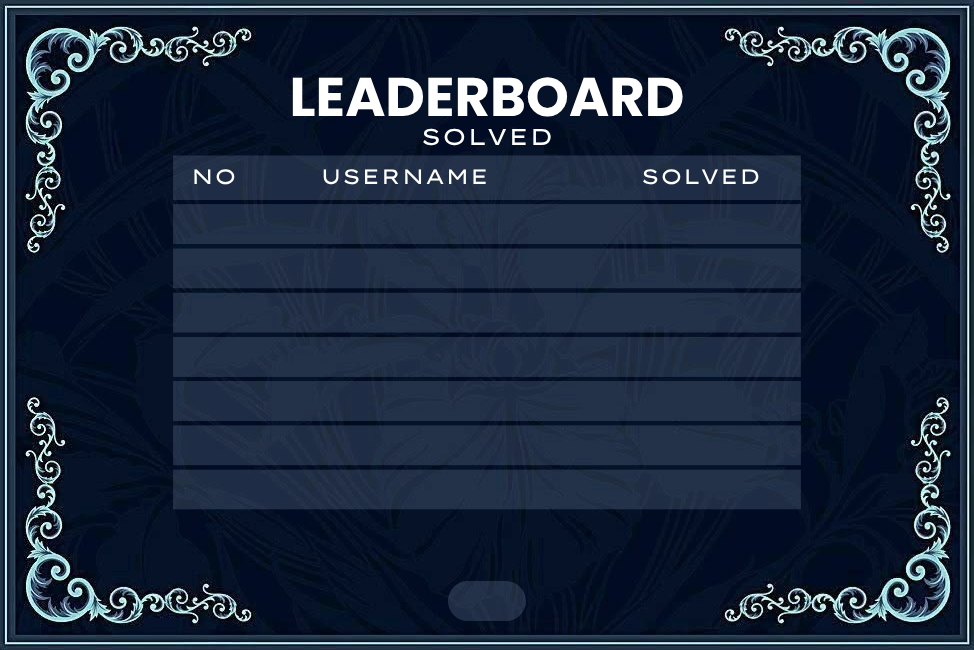
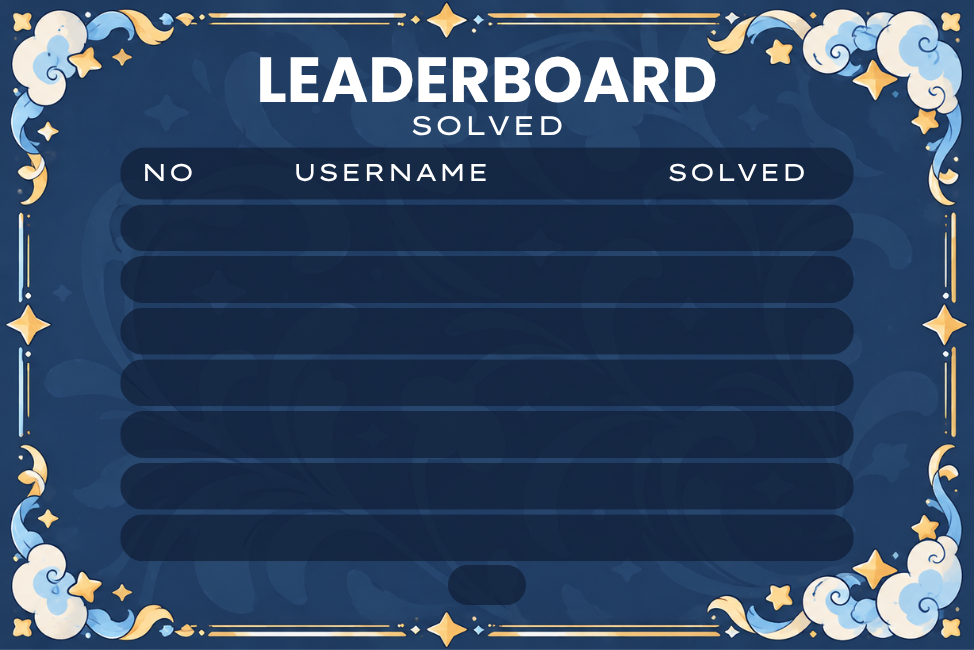
feat: readjust renders to new templates and send accepted notification as image

diff --git a/bot/render/profile.py b/bot/render/profile.py
@@ -11,20 +11,20 @@ from bot.render.text import Box, fit_text
 
 TEMPLATE = ASSETS_DIR / "profile.png"
 
-SLOT_AVATAR: Box = (167, 158, 386, 377)
-SLOT_LAST_SOLVED: Box = (167, 415, 386, 492)
-SLOT_LEVEL: Box = (411, 158, 485, 207)
-SLOT_HANDLE: Box = (509, 158, 807, 207)
-SLOT_RANK: Box = (411, 226, 525, 267)
-SLOT_EXP: Box = (551, 226, 666, 267)
-SLOT_MONEY: Box = (692, 226, 807, 267)
-SLOT_RATING: Box = (430, 366, 530, 392)
-SLOT_CF_RANK: Box = (563, 366, 663, 392)
-SLOT_MAX: Box = (696, 366, 796, 392)
-SLOT_LAST_SEEN: Box = (430, 434, 530, 460)
-SLOT_SOLVED: Box = (563, 434, 663, 460)
-SLOT_STREAK: Box = (696, 434, 796, 460)
-AVATAR_RADIUS = 12
+SLOT_AVATAR: Box = (93, 130, 362, 400)
+SLOT_LAST_SOLVED: Box = (105, 446, 350, 536)
+SLOT_LEVEL: Box = (393, 130, 484, 189)
+SLOT_HANDLE: Box = (514, 130, 880, 189)
+SLOT_RANK: Box = (393, 214, 533, 263)
+SLOT_EXP: Box = (566, 214, 707, 263)
+SLOT_MONEY: Box = (740, 214, 880, 263)
+SLOT_RATING: Box = (412, 386, 542, 422)
+SLOT_CF_RANK: Box = (575, 386, 705, 422)
+SLOT_MAX: Box = (740, 386, 870, 422)
+SLOT_LAST_SEEN: Box = (412, 470, 542, 506)
+SLOT_SOLVED: Box = (575, 470, 705, 506)
+SLOT_STREAK: Box = (740, 470, 870, 506)
+AVATAR_RADIUS = 66
 
 
 @dataclass(frozen=True)
@@ -71,8 +71,18 @@ def _paste_avatar(base: Image.Image, avatar: bytes | None) -> None:
     base.paste(img, (x0, y0), mask)
 
 
+SHORT_CF_RANKS = {
+    "candidate master": "CM",
+    "international master": "IM",
+    "international grandmaster": "IGM",
+    "legendary grandmaster": "LGM",
+}
+
+
 def _title(rank: str | None) -> str:
-    return rank.title() if rank else "Unrated"
+    if not rank:
+        return "Unrated"
+    return SHORT_CF_RANKS.get(rank.lower(), rank.title())
 
 
 def render_profile(data: ProfileData) -> bytes:
@@ -82,26 +92,26 @@ def render_profile(data: ProfileData) -> bytes:
     handle_color = cf_rank_color(data.cf_rank)
     rank_color = DISCORD_RANK_COLORS.get(data.rank_name, GRAY)
 
-    fit_text(draw, f"Lv {data.level}", SLOT_LEVEL, "Bold", 22, 14, WHITE)
-    fit_text(draw, data.handle, SLOT_HANDLE, "Bold", 30, 18, handle_color)
-    fit_text(draw, data.rank_name, SLOT_RANK, "SemiBold", 18, 12, rank_color)
-    fit_text(draw, f"{data.exp_in_level}/{data.exp_need}", SLOT_EXP, "SemiBold", 18, 12, WHITE)
-    fit_text(draw, f"${data.money:.2f}", SLOT_MONEY, "SemiBold", 18, 12, WHITE)
+    fit_text(draw, f"Lv {data.level}", SLOT_LEVEL, "Bold", 26, 14, WHITE)
+    fit_text(draw, data.handle, SLOT_HANDLE, "Bold", 34, 18, handle_color)
+    fit_text(draw, data.rank_name, SLOT_RANK, "SemiBold", 20, 12, rank_color)
+    fit_text(draw, f"{data.exp_in_level}/{data.exp_need}", SLOT_EXP, "SemiBold", 20, 12, WHITE)
+    fit_text(draw, f"${data.money:.2f}", SLOT_MONEY, "SemiBold", 20, 12, WHITE)
 
     rating_text = "Unrated" if data.rating is None else str(data.rating)
-    fit_text(draw, rating_text, SLOT_RATING, "SemiBold", 20, 12, cf_rating_color(data.rating))
-    fit_text(draw, _title(data.cf_rank), SLOT_CF_RANK, "SemiBold", 16, 11, handle_color)
+    fit_text(draw, rating_text, SLOT_RATING, "SemiBold", 24, 12, cf_rating_color(data.rating))
+    fit_text(draw, _title(data.cf_rank), SLOT_CF_RANK, "SemiBold", 18, 11, handle_color)
     max_text = "-" if data.max_rating is None else str(data.max_rating)
-    fit_text(draw, max_text, SLOT_MAX, "SemiBold", 20, 12, cf_rating_color(data.max_rating))
-    fit_text(draw, data.last_seen, SLOT_LAST_SEEN, "Medium", 16, 11, WHITE)
-    fit_text(draw, str(data.solved_count), SLOT_SOLVED, "SemiBold", 20, 12, WHITE)
-    fit_text(draw, str(data.streak), SLOT_STREAK, "SemiBold", 20, 12, WHITE)
+    fit_text(draw, max_text, SLOT_MAX, "SemiBold", 24, 12, cf_rating_color(data.max_rating))
+    fit_text(draw, data.last_seen, SLOT_LAST_SEEN, "Medium", 20, 11, WHITE)
+    fit_text(draw, str(data.solved_count), SLOT_SOLVED, "SemiBold", 24, 12, WHITE)
+    fit_text(draw, str(data.streak), SLOT_STREAK, "SemiBold", 24, 12, WHITE)
 
     x0, y0, x1, y1 = SLOT_LAST_SOLVED
     row_h = (y1 - y0) // 3
     for i, line in enumerate(data.last_solved[:3]):
-        box = (x0 + 8, y0 + i * row_h, x1 - 8, y0 + (i + 1) * row_h)
-        fit_text(draw, line, box, "Regular", 16, 12, WHITE, align="left")
+        box = (x0, y0 + i * row_h, x1, y0 + (i + 1) * row_h)
+        fit_text(draw, line, box, "Regular", 17, 12, WHITE, align="left")
 
     buf = io.BytesIO()
     base.save(buf, "PNG")

diff --git a/tests/test_poller_cog.py b/tests/test_poller_cog.py
@@ -8,22 +8,23 @@ import discord
 
 from bot.cf.client import CodeforcesError
 from bot.cf.models import Problem, UserInfo
-from bot.cogs.poller import PollerCog, format_solve_notification
+from bot.cogs.poller import PollerCog, accepted_data, accepted_view
 from bot.db.repo import cf_cache, users
 from bot.services.solve_processor import SolveResult
 
 
-def test_format_solve_notification():
-    r = SolveResult(1, "tourist", Problem(1842, "B", "Tenzing", 900, ()), 90, Decimal("4.50"), 1, 1, "Rookie", "Rookie", 3)
-    text = format_solve_notification(r)
-    assert "**tourist**" in text and "[1842B - Tenzing](https://codeforces.com/problemset/problem/1842/B)" in text
-    assert "rating 900" in text and "+90 EXP" in text and "+$4.50" in text
+def test_accepted_data_maps_result():
+    r = SolveResult(1, "tourist", Problem(1842, "B", "Tenzing", 900, ()), 90, Decimal("4.50"), 1, 2, "Rookie", "Elite", 3)
+    data = accepted_data(r)
+    assert data.handle == "tourist" and data.rank_name == "Elite" and data.level == 2 and data.streak == 3
+    assert data.exp_gained == 90 and data.money_gained == Decimal("4.50") and data.problem.code == "1842B"
 
 
-def test_format_unrated_notification():
+async def test_accepted_view_links_to_problem():
     r = SolveResult(1, "h", Problem(1, "A", "x", None, ()), 0, Decimal("0.00"), 1, 1, "Rookie", "Rookie", 1)
-    text = format_solve_notification(r)
-    assert "(unrated)" in text and "+0 EXP" in text and "+$0.00" in text
+    view = accepted_view(r)
+    button = view.children[0]
+    assert button.label == "Open 1A" and button.url == "https://codeforces.com/problemset/problem/1/A"
 
 
 async def test_reset_broken_streaks(session_factory):
@@ -75,12 +76,6 @@ async def test_wait_ready_serializes_role_creation(session_factory):
 
     assert guild.create_role.await_count == 8
     assert len(cog.role_ids) == 8
-
-
-def test_format_solve_notification_escapes_link_label():
-    r = SolveResult(1, "h", Problem(1, "A", "f(x) [hard]", 900, ()), 90, Decimal("4.50"), 1, 1, "Rookie", "Rookie", 1)
-    text = format_solve_notification(r)
-    assert "[1A - f(x\\) [hard\\]](https://codeforces.com/problemset/problem/1/A)" in text
 
 
 async def test_wait_ready_survives_role_setup_failure(session_factory):

diff --git a/bot/cogs/poller.py b/bot/cogs/poller.py
@@ -1,5 +1,6 @@
 import asyncio
 import datetime as dt
+import io
 import logging
 
 import discord
@@ -9,6 +10,7 @@ from bot.cf.client import CodeforcesError
 from bot.cf.models import UserInfo
 from bot.config import WIB
 from bot.db.repo import cf_cache, problemset, users
+from bot.render.accepted import AcceptedData, render_accepted
 from bot.services.roles import apply_rank, ensure_rank_roles, set_level_nickname
 from bot.services.solve_processor import SolveResult, process_user
 from bot.services.streak import is_broken, today_wib
@@ -17,11 +19,22 @@ log = logging.getLogger(__name__)
 INFO_BATCH = 100
 
 
-def format_solve_notification(result: SolveResult) -> str:
-    p = result.problem
-    name = p.name.replace("]", "\\]").replace(")", "\\)")
-    rating = "(unrated)" if p.rating is None else f"(rating {p.rating})"
-    return f"**{result.handle}** solved [{p.code} - {name}]({p.url}) {rating} | +{result.exp_gained} EXP | +${result.money_gained:.2f}"
+def accepted_data(result: SolveResult) -> AcceptedData:
+    return AcceptedData(
+        handle=result.handle,
+        rank_name=result.new_rank,
+        problem=result.problem,
+        exp_gained=result.exp_gained,
+        money_gained=result.money_gained,
+        level=result.new_level,
+        streak=result.streak,
+    )
+
+
+def accepted_view(result: SolveResult) -> discord.ui.View:
+    view = discord.ui.View()
+    view.add_item(discord.ui.Button(style=discord.ButtonStyle.link, label=f"Open {result.problem.code}", url=result.problem.url))
+    return view
 
 
 class PollerCog(commands.Cog):
@@ -59,8 +72,10 @@ class PollerCog(commands.Cog):
         if channel is None:
             log.warning("notify channel %s not found", self.bot.settings.notify_channel_id)
             return
+        png = await asyncio.to_thread(render_accepted, accepted_data(result))
+        file = discord.File(io.BytesIO(png), filename="accepted.png")
         try:
-            await channel.send(format_solve_notification(result))
+            await channel.send(content=f"<@{result.discord_id}>", file=file, view=accepted_view(result))
         except discord.HTTPException as exc:
             log.warning("notification failed: %s", exc)
 

diff --git a/bot/render/accepted.py b/bot/render/accepted.py
@@ -1,0 +1,53 @@
+import io
+from dataclasses import dataclass
+from decimal import Decimal
+
+from PIL import Image, ImageDraw
+
+from bot.cf.models import Problem
+from bot.render.colors import DISCORD_RANK_COLORS, GRAY, MUTED, WHITE, cf_rating_color
+from bot.render.fonts import ASSETS_DIR, get_font
+from bot.render.text import Box, fit_text, truncate
+
+TEMPLATE = ASSETS_DIR / "acc.png"
+SLOT_HANDLE: Box = (100, 228, 875, 280)
+SLOT_PROBLEM: Box = (100, 292, 875, 334)
+SLOT_RATING: Box = (215, 352, 385, 392)
+SLOT_EXP: Box = (402, 352, 572, 392)
+SLOT_MONEY: Box = (589, 352, 759, 392)
+SLOT_TAGS: Box = (110, 408, 865, 438)
+SLOT_FOOTER: Box = (100, 462, 875, 500)
+GOLD = "#FFD54F"
+GREEN = "#66BB6A"
+
+
+@dataclass(frozen=True)
+class AcceptedData:
+    handle: str
+    rank_name: str
+    problem: Problem
+    exp_gained: int
+    money_gained: Decimal
+    level: int
+    streak: int
+
+
+def render_accepted(data: AcceptedData) -> bytes:
+    base = Image.open(TEMPLATE).convert("RGB")
+    draw = ImageDraw.Draw(base)
+    problem = data.problem
+    fit_text(draw, data.handle, SLOT_HANDLE, "Bold", 40, 22, DISCORD_RANK_COLORS.get(data.rank_name, GRAY))
+    fit_text(draw, f"{problem.code} · {problem.name}", SLOT_PROBLEM, "SemiBold", 28, 16, WHITE)
+    rating_text = "unrated" if problem.rating is None else f"rating {problem.rating}"
+    fit_text(draw, rating_text, SLOT_RATING, "Bold", 24, 14, cf_rating_color(problem.rating))
+    fit_text(draw, f"+{data.exp_gained} EXP", SLOT_EXP, "Bold", 24, 14, GOLD)
+    fit_text(draw, f"+${data.money_gained:.2f}", SLOT_MONEY, "Bold", 24, 14, GREEN)
+    tags_font = get_font("Regular", 17)
+    tags = " · ".join(problem.tags) if problem.tags else "no tags"
+    x0, y0, x1, y1 = SLOT_TAGS
+    draw.text(((x0 + x1) / 2, (y0 + y1) / 2), truncate(tags_font, tags, x1 - x0), font=tags_font, fill=MUTED, anchor="mm")
+    footer = f"Level {data.level} · {data.rank_name} · streak {data.streak}"
+    fit_text(draw, footer, SLOT_FOOTER, "Medium", 20, 14, MUTED)
+    buf = io.BytesIO()
+    base.save(buf, "PNG")
+    return buf.getvalue()

diff --git a/bot/render/daily.py b/bot/render/daily.py
@@ -7,11 +7,11 @@ from bot.render.colors import MUTED, WHITE, cf_rating_color
 from bot.render.fonts import ASSETS_DIR, get_font
 from bot.render.text import fit_text, truncate
 
-BOXES: tuple[tuple[int, int, int, int], ...] = ((250, 157, 724, 256), (250, 294, 724, 393), (250, 431, 724, 531))
-PADDING = 16
-TITLE_Y = 18
-TAGS_Y = 58
-RATING_WIDTH = 90
+BOXES: tuple[tuple[int, int, int, int], ...] = ((163, 130, 810, 266), (163, 283, 810, 419), (163, 436, 810, 572))
+PADDING = 28
+TITLE_Y = 54
+TAGS_Y = 98
+RATING_WIDTH = 100
 
 
 def render_daily(problems: list[Problem]) -> bytes:
@@ -21,11 +21,11 @@ def render_daily(problems: list[Problem]) -> bytes:
         left = x0 + PADDING
         right = x1 - PADDING
         title_box = (left, y0 + TITLE_Y - 14, right - RATING_WIDTH, y0 + TITLE_Y + 14)
-        fit_text(draw, f"{problem.code} · {problem.name}", title_box, "SemiBold", 22, 14, WHITE, align="left")
+        fit_text(draw, f"{problem.code} · {problem.name}", title_box, "SemiBold", 26, 14, WHITE, align="left")
         rating_text = "?" if problem.rating is None else str(problem.rating)
         rating_box = (right - RATING_WIDTH, y0 + TITLE_Y - 14, right, y0 + TITLE_Y + 14)
-        fit_text(draw, rating_text, rating_box, "Bold", 22, 14, cf_rating_color(problem.rating), align="right")
-        tags_font = get_font("Regular", 15)
+        fit_text(draw, rating_text, rating_box, "Bold", 26, 14, cf_rating_color(problem.rating), align="right")
+        tags_font = get_font("Regular", 17)
         tags = " · ".join(problem.tags) if problem.tags else "no tags"
         draw.text((left, y0 + TAGS_Y), truncate(tags_font, tags, right - left), font=tags_font, fill=MUTED, anchor="lm")
     buf = io.BytesIO()

diff --git a/bot/render/leaderboard.py b/bot/render/leaderboard.py
@@ -7,11 +7,11 @@ from bot.render.fonts import ASSETS_DIR
 from bot.render.text import Box, fit_text
 from bot.services.leaderboard import LeaderboardRow
 
-ROWS: tuple[tuple[int, int], ...] = ((204, 244), (249, 288), (293, 332), (337, 377), (381, 421), (426, 465), (470, 509))
-COL_NO: tuple[int, int] = (190, 240)
-COL_USERNAME: tuple[int, int] = (324, 624)
-COL_VALUE: tuple[int, int] = (650, 750)
-PAGE_PILL: Box = (448, 581, 526, 621)
+ROWS: tuple[tuple[int, int], ...] = ((205, 250), (256, 302), (308, 353), (360, 405), (411, 457), (463, 508), (515, 560))
+COL_NO: tuple[int, int] = (137, 197)
+COL_USERNAME: tuple[int, int] = (297, 640)
+COL_VALUE: tuple[int, int] = (661, 811)
+PAGE_PILL: Box = (449, 565, 524, 604)
 
 
 def render_leaderboard(kind: str, rows: list[LeaderboardRow], page: int, total_pages: int) -> bytes:

diff --git a/tests/test_render_boards.py b/tests/test_render_boards.py
@@ -27,3 +27,14 @@ def test_render_daily():
         Problem(1, "A", "Theatre Square", 1600, ()),
     ]
     assert Image.open(io.BytesIO(render_daily(problems))).size == (974, 650)
+
+
+def test_render_accepted():
+    from decimal import Decimal
+
+    from bot.render.accepted import AcceptedData, render_accepted
+
+    data = AcceptedData("cheviazt", "Rookie", Problem(1842, "B", "Tenzing and Books", 900, ("math", "greedy")), 90, Decimal("4.50"), 3, 5)
+    assert Image.open(io.BytesIO(render_accepted(data))).size == (974, 650)
+    unrated = AcceptedData("h", "Elite", Problem(1, "A", "x", None, ()), 0, Decimal("0.00"), 1, 0)
+    assert Image.open(io.BytesIO(render_accepted(unrated))).size == (974, 650)
